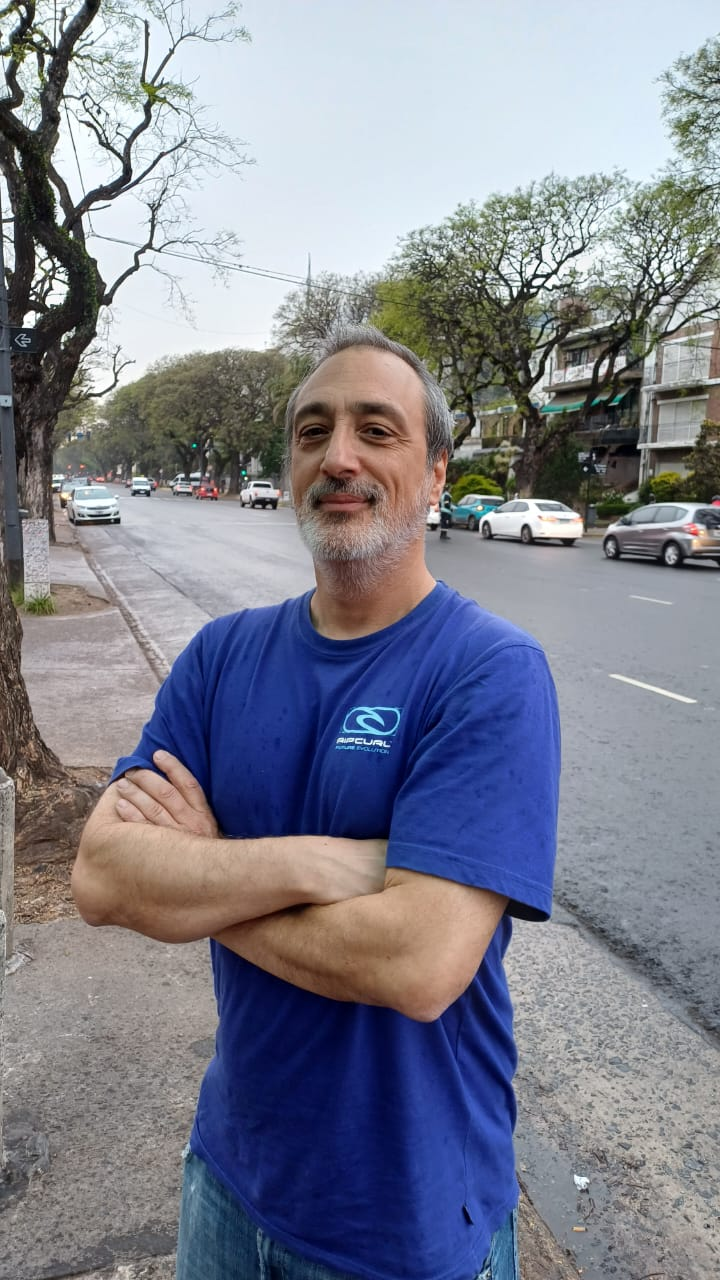
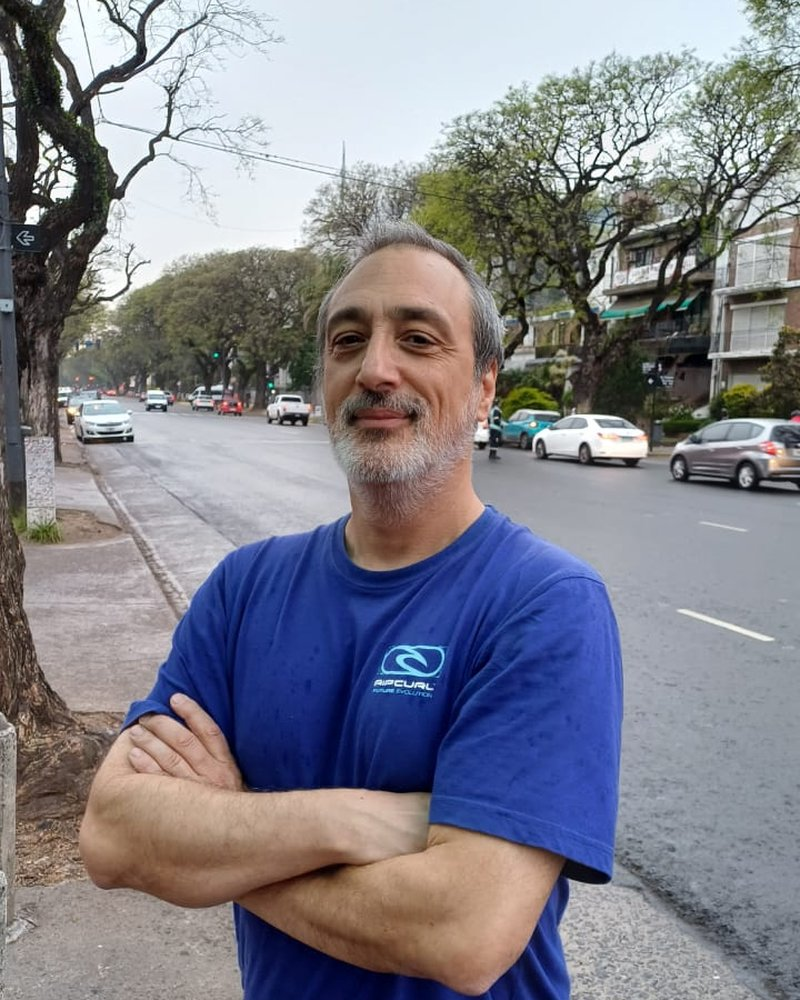
Foto Cafure y ajustes finales

diff --git a/index.html b/index.html
@@ -214,7 +214,6 @@
           <li>Podcast</li>
           <li>UMALCA</li>
           <li>Divulgación</li>
-          <li>Iberoamérica</li>
         </ul>
       </div>
     </div>
@@ -253,7 +252,7 @@
 
       <div class="cfp-cta">
         <p>Las bases y el formulario se publicarán en este sitio cuando se abra el segundo anuncio.</p>
-        <a href="mailto:[email redacted]" class="btn btn-primary">Escríbenos para estar al tanto</a>
+        <a href="mailto:[email redacted]" class="btn btn-primary">Escríbenos para estar al tanto</a>
       </div>
     </div>
   </section>
@@ -271,24 +270,15 @@
           <h3 class="orgs-label">Organizan</h3>
           <ul class="logo-row">
             <li>
-              <div class="logo-slot">
-                <img src="assets/images/logos/puc.png" alt="Logo PUC" onerror="this.style.display='none'; this.nextElementSibling.style.display='flex';">
-                <span class="logo-fallback">Logo<br>PUC</span>
-              </div>
+              <div class="logo-slot"><img src="assets/images/logos/puc.png" alt="Logo PUC"></div>
               <p>Pontificia Universidad Católica de Chile</p>
             </li>
             <li>
-              <div class="logo-slot">
-                <img src="assets/images/logos/ulagos.png" alt="Logo ULAGOS" onerror="this.style.display='none'; this.nextElementSibling.style.display='flex';">
-                <span class="logo-fallback">Logo<br>ULAGOS</span>
-              </div>
+              <div class="logo-slot"><img src="assets/images/logos/ulagos.png" alt="Logo ULAGOS"></div>
               <p>Universidad de Los Lagos</p>
             </li>
             <li>
-              <div class="logo-slot">
-                <img src="assets/images/logos/dimat.png" alt="Logo Red DIMAT" onerror="this.style.display='none'; this.nextElementSibling.style.display='flex';">
-                <span class="logo-fallback">Logo<br>DIMAT</span>
-              </div>
+              <div class="logo-slot"><img src="assets/images/logos/dimat.png" alt="Logo Red DIMAT"></div>
               <p>Red de Divulgación Matemática Chile</p>
             </li>
           </ul>
@@ -298,24 +288,15 @@
           <h3 class="orgs-label">Patrocinan</h3>
           <ul class="logo-row logo-row-sm">
             <li>
-              <div class="logo-slot">
-                <img src="assets/images/logos/somachi.png" alt="Logo SOMACHI" onerror="this.style.display='none'; this.nextElementSibling.style.display='flex';">
-                <span class="logo-fallback">SOMACHI</span>
-              </div>
+              <div class="logo-slot"><img src="assets/images/logos/somachi.png" alt="Logo SOMACHI"></div>
               <p>Sociedad de Matemática de Chile</p>
             </li>
             <li>
-              <div class="logo-slot">
-                <img src="assets/images/logos/sochiem.png" alt="Logo SOCHIEM" onerror="this.style.display='none'; this.nextElementSibling.style.display='flex';">
-                <span class="logo-fallback">SOCHIEM</span>
-              </div>
+              <div class="logo-slot"><img src="assets/images/logos/sochiem.png" alt="Logo SOCHIEM"></div>
               <p>Sociedad Chilena de Educación Matemática</p>
             </li>
             <li>
-              <div class="logo-slot">
-                <img src="assets/images/logos/cuech.png" alt="Logo Red VCM CUECH" onerror="this.style.display='none'; this.nextElementSibling.style.display='flex';">
-                <span class="logo-fallback">Red VCM<br>CUECH</span>
-              </div>
+              <div class="logo-slot"><img src="assets/images/logos/cuech.png" alt="Logo Red VCM CUECH"></div>
               <p>Red VCM del Consorcio de Universidades del Estado</p>
             </li>
           </ul>
@@ -336,7 +317,7 @@
       <div class="footer-col">
         <h4>Contacto</h4>
         <ul>
-          <li><a href="mailto:[email redacted]">[email redacted]</a></li>
+          <li><a href="mailto:[email redacted]">[email redacted]</a></li>
           <li><a href="https://dimatchile.cl">dimatchile.cl</a></li>
         </ul>
       </div>
@@ -345,7 +326,6 @@
         <h4>Redes</h4>
         <ul>
           <li><a href="https://instagram.com/dimatchile" target="_blank" rel="noopener">Instagram</a></li>
-          <li><a href="#">YouTube</a></li>
         </ul>
       </div>
 